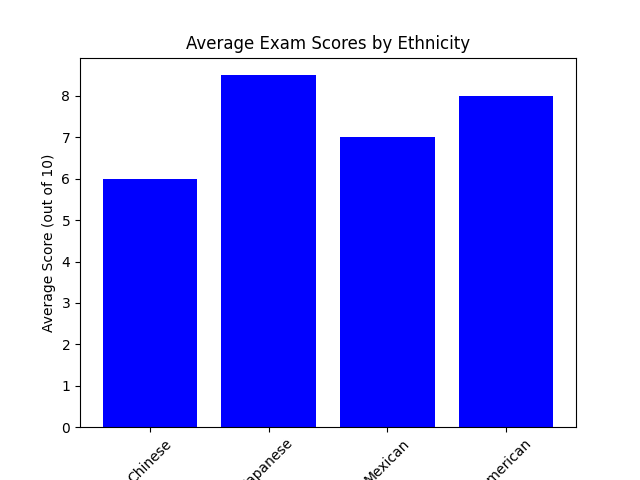
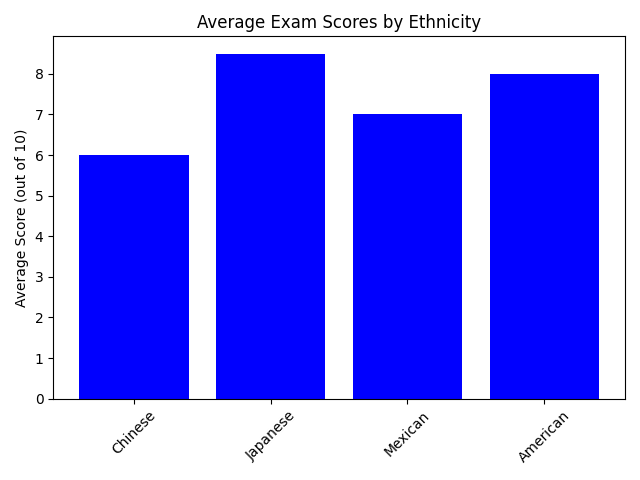
implemented class exercise: word cloud

diff --git a/src/project1/jasper.py b/src/project1/jasper.py
@@ -11,7 +11,8 @@ def generate_jasper_graphs(OUTPUT_DIR="../../results/project1"):
     plt.ylabel("Average Score (out of 10)")
     plt.title("Average Exam Scores by Ethnicity")
     plt.xticks(rotation=45)
-    plt.savefig(f"{OUTPUT_DIR}/vis1.png")
+    plt.tight_layout()
+    plt.savefig(f"{OUTPUT_DIR}/vis1.png", dpi=100)
     plt.show()
 
     # figure 2: 2D square plot
@@ -35,7 +36,7 @@ def generate_jasper_graphs(OUTPUT_DIR="../../results/project1"):
     plt.title("Average Chess Board Sizes in different shops")
     plt.xlabel("Shop")
     plt.ylabel("Size (cm)")
-    plt.savefig(f"{OUTPUT_DIR}/vis2.png")
+    plt.savefig(f"{OUTPUT_DIR}/vis2.png", dpi=100)
     plt.show()
 
     # figure 3: 3D cube plot
@@ -69,5 +70,5 @@ def generate_jasper_graphs(OUTPUT_DIR="../../results/project1"):
     ax.view_init(elev=20, azim=35)
     ax.set_proj_type("ortho")
     ax.set_title("Average Magic Cube Sizes in Different Countries")
-    plt.savefig(f"{OUTPUT_DIR}/vis3.png")
+    plt.savefig(f"{OUTPUT_DIR}/vis3.png", dpi=100)
     plt.show()

diff --git a/src/class-exercise/create_wordcloud.py b/src/class-exercise/create_wordcloud.py
@@ -1,0 +1,17 @@
+import os
+import matplotlib.pyplot as plt
+from wordcloud import WordCloud, STOPWORDS
+
+# just a file for testing the exercise5
+if __name__ == "__main__":
+    OUTPUT_DIR = "../../results/class-exercise"
+    os.makedirs(OUTPUT_DIR, exist_ok=True)
+    with open("./words.txt", 'r') as file:
+        text = file.read().strip()
+        wordcloud = WordCloud(stopwords=STOPWORDS, background_color="white").generate(text)
+        plt.imshow(wordcloud, interpolation="bilinear", cmap="plasma")
+        plt.axis("off")
+        plt.savefig(os.path.join(OUTPUT_DIR, "wordcloud.png"), dpi=100)
+        plt.show()
+    
+
